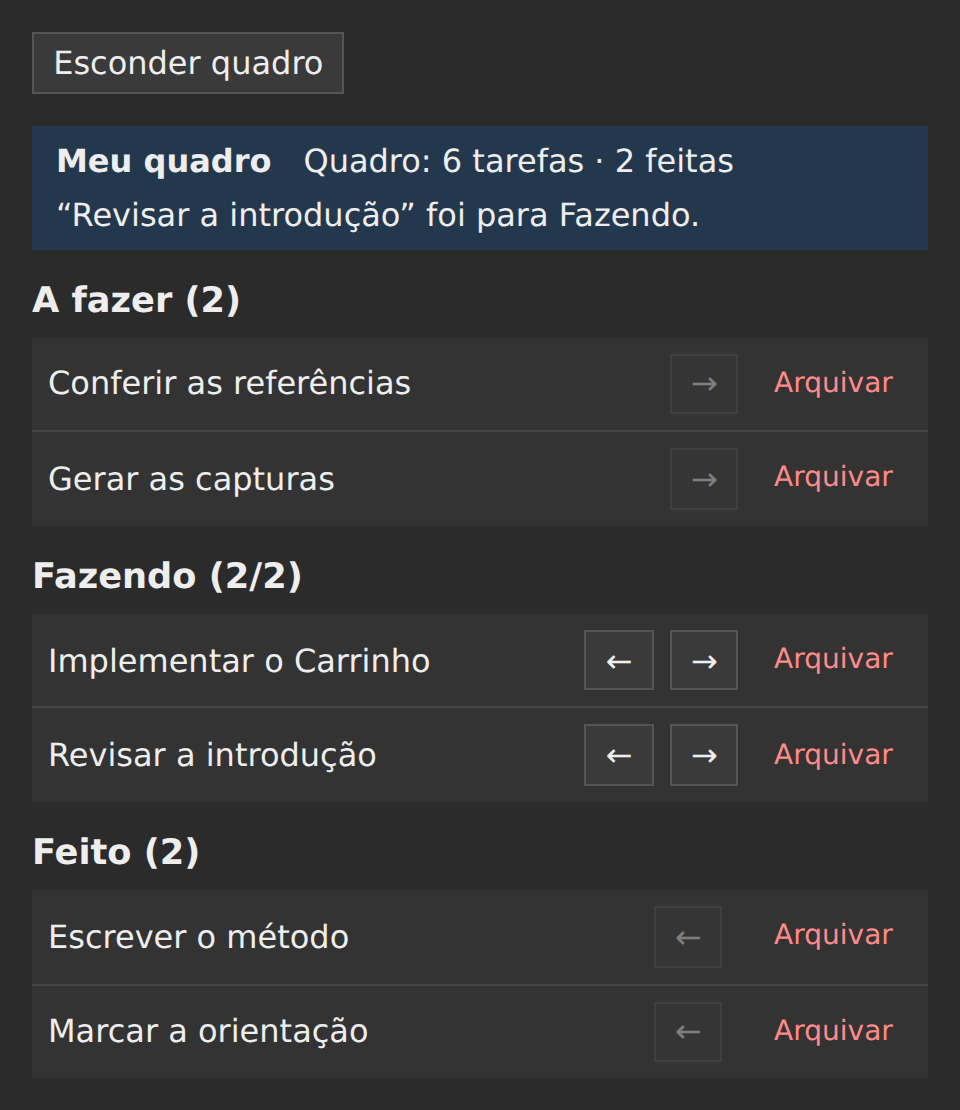
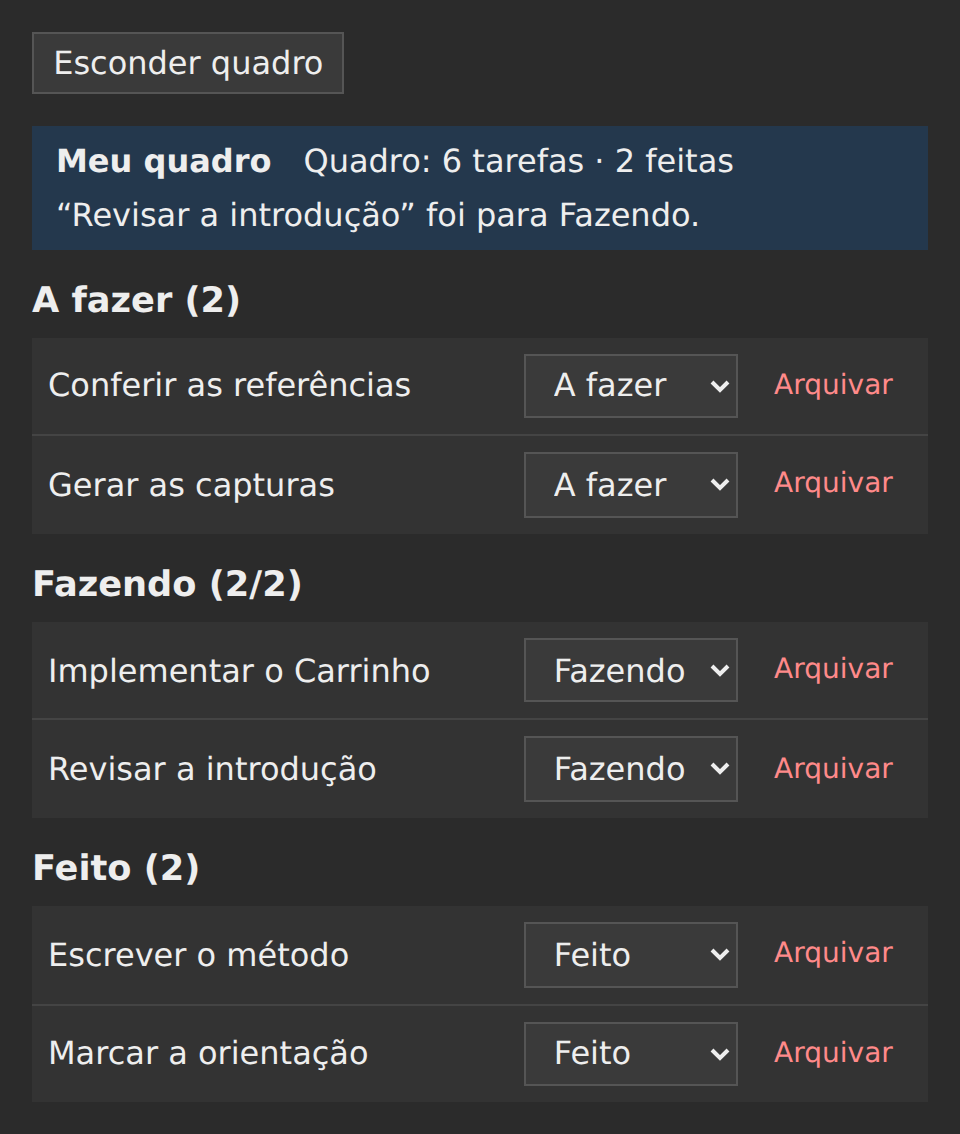
Troca as setas do Quadro pela lista da coluna no React
O React do Quadro ainda renderiza, para cada tarefa, os botões "←" e
"→" para a coluna vizinha, e falha no teste de conformidade da
especificação nova, que procura a lista "Coluna de <título>" com as
três colunas.

Cada tarefa ganha um <select> controlado, com value na coluna da
tarefa e uma opção por coluna, habilitada pelo podeIr do domínio; o
onChange despacha a ação "mover" que o clique das setas despachava, e
o redutor fica como estava. Sai a função mover, que escolhia entre o
botão e o espaço vazio da seta ausente.

Testado: o teste de conformidade passa 24/24 no build, e sem o
disabled das opções falha "4 Fazendo cheia desabilita só a opção
Fazendo nas outras colunas". As capturas inicial, fazendo-cheia e
coluna-vazia mudam e saem iguais, byte a byte, às do Web Component.

diff --git a/implementacoes/quadro-de-tarefas/react/src/main.tsx b/implementacoes/quadro-de-tarefas/react/src/main.tsx
@@ -12,15 +12,14 @@ import {
   MENSAGENS,
   anunciarArquivamento,
   anunciarMovimento,
-  cabeEm,
   carregarQuadro,
   ouvirOutrasAbas,
+  podeIr,
   salvarQuadro,
   tarefa,
   textoDaColuna,
   textoDoCabecalho,
   tituloDa,
-  vizinhas,
   type Coluna,
   type EstadoDoQuadro,
 } from "../../dominio";
@@ -115,22 +114,7 @@ function Cabecalho() {
 
 function ColunaDoQuadro({ coluna }: { coluna: Coluna }) {
   const { estado, despachar } = useQuadro();
-  const { anterior, proxima } = vizinhas(coluna);
   const ids = estado[coluna];
-
-  const mover = (para: Coluna | undefined, sinal: string, id: number) =>
-    para ? (
-      <button
-        type="button"
-        aria-label={`Mover ${tarefa(id).titulo} para ${tituloDa(para)}`}
-        disabled={!cabeEm(estado, para)}
-        onClick={() => despachar({ tipo: "mover", id, de: coluna, para })}
-      >
-        {sinal}
-      </button>
-    ) : (
-      <span />
-    );
 
   return (
     <section className="coluna">
@@ -140,8 +124,28 @@ function ColunaDoQuadro({ coluna }: { coluna: Coluna }) {
           {ids.map((id) => (
             <li key={id}>
               <span className="titulo">{tarefa(id).titulo}</span>
-              {mover(anterior, "←", id)}
-              {mover(proxima, "→", id)}
+              <select
+                aria-label={`Coluna de ${tarefa(id).titulo}`}
+                value={coluna}
+                onChange={(e) =>
+                  despachar({
+                    tipo: "mover",
+                    id,
+                    de: coluna,
+                    para: e.target.value as Coluna,
+                  })
+                }
+              >
+                {COLUNAS.map((para) => (
+                  <option
+                    key={para}
+                    value={para}
+                    disabled={!podeIr(estado, coluna, para)}
+                  >
+                    {tituloDa(para)}
+                  </option>
+                ))}
+              </select>
               <button
                 type="button"
                 className="arquivar"
